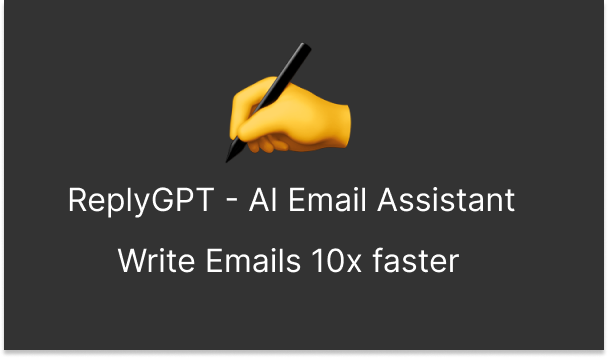
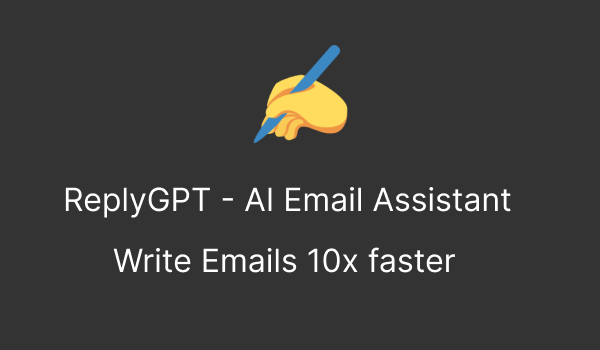
fixed replygpt image

diff --git a/src/app/(pages)/replygpt/page.tsx b/src/app/(pages)/replygpt/page.tsx
@@ -1,13 +1,16 @@
 import Link from "next/link";
 import Image from "next/image";
 import replygpt from "/public/img/replygpt/replygpt.png";
+import replygptIcon from "/public/img/replygpt/android-chrome-192x192.png";
 
 function Page() {
   return (
     <div className="wrapper">
       <div className="wrapper_content">
         <div className="mb_60 flex column align_center text_center justify_center gap_24">
-          <div className="h4 border_round round">✍</div>
+          <div className="h4 border_round round">
+            <Image src={replygptIcon} className="height_grow" alt="" />
+          </div>
           <h1 className="h4">ReplyGPT - Your AI Email Assistanct Writer</h1>
           <p>
             Introducing ReplyGPT - the ultimate AI email assistant that helps

diff --git a/styles/_utils.scss b/styles/_utils.scss
@@ -99,6 +99,16 @@
   );
   background-color: var(--surface3);
 }
+.height_grow {
+  width: calc(
+    ((25.63 / 16) * 1rem) + (43.95 - 25.63) *
+      calc((calc(1140 * 1px) - 320 / 16 * 1rem) / (1140 - 320))
+  );
+  height: calc(
+    ((25.63 / 16) * 1rem) + (43.95 - 25.63) *
+      calc((calc(1140 * 1px) - 320 / 16 * 1rem) / (1140 - 320))
+  );
+}
 .image {
   height: auto;
 }

diff --git a/src/components/Footer/Footer.tsx b/src/components/Footer/Footer.tsx
@@ -37,7 +37,7 @@ function Footer() {
           </p>
           <ul className="footer_items">
             <li className="footer_items_list">
-              <Link href="#0" className="footer_items_link">
+              <Link href="/replygpt" className="footer_items_link">
                 ReplyGPT
               </Link>
             </li>
